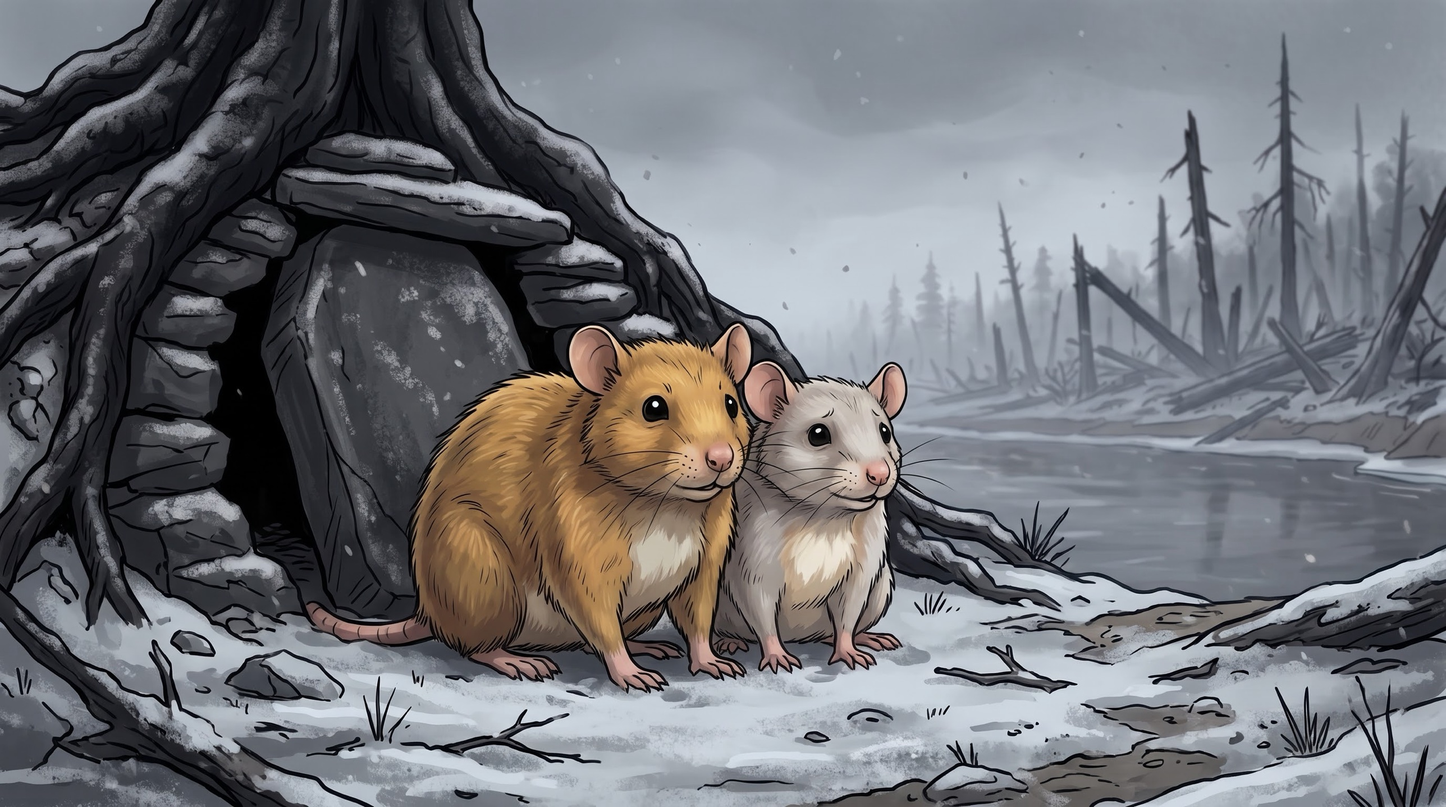
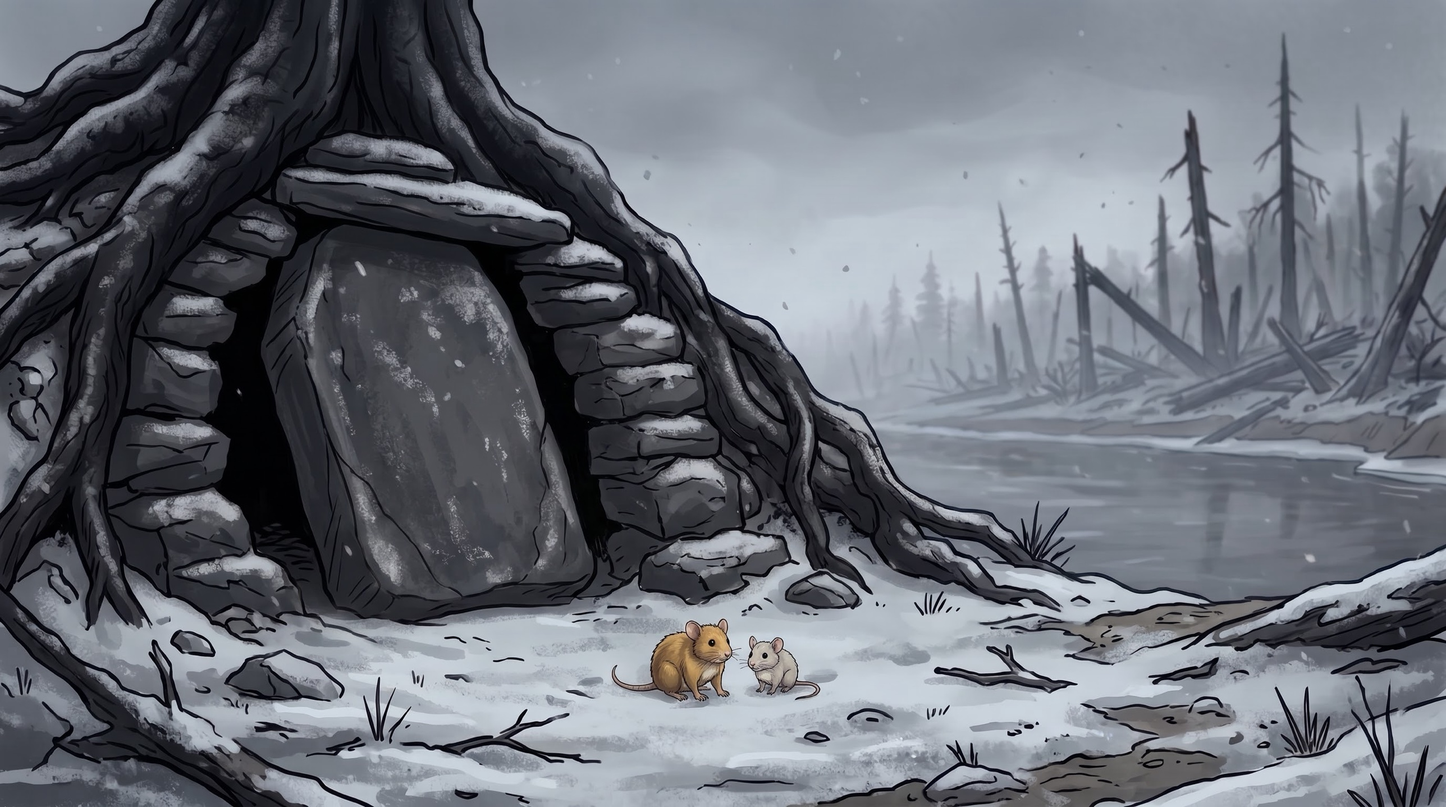
Part 2: 149 wide (true mouse scale) + 149-close for face crops; all frames in
Claude-Session: https://claude.ai/code/session_01NtES8fcQpSP9FW8DWb2y14

diff --git a/videos/dino-part2/shotlist/shotlist.md b/videos/dino-part2/shotlist/shotlist.md
@@ -328,9 +328,9 @@
   > You wait. One night. Two.
 - **#149** · 13:33.9 · `NEW·M` 🆕 — دم ورودی برفی: پیپ و یک موش دوم (مادر) · _رفرنس: @pip · @pip-mate · ref: D9b_ · **وضعیت:** `M=beside him`
   > On the third morning, he's at the entrance. And he's not alone.
-- **#150** · 13:38.9 · `CROP←#149` — کلوز صورت ماده
+- **#150** · 13:38.9 · `CROP←149-close (big version)` — کلوز صورت ماده
   > A second little face. Smaller. Pale, ash-grey fur, with a white mark on her chest. The same black eyes.
-- **#151** · 13:46.8 · `CROP←#149` — دو موش کنار هم
+- **#151** · 13:46.8 · `CROP←149-close (big version)` — دو موش کنار هم
   > She survived the dark too, in some other hole, under some other tree. Pip isn't the last of his kind.
 - **#152** · 13:55.1 · `CROP←#153` — کلوز صورت پسر، لبخند غمگین
   > (pause) You're happy for him. You really are.
